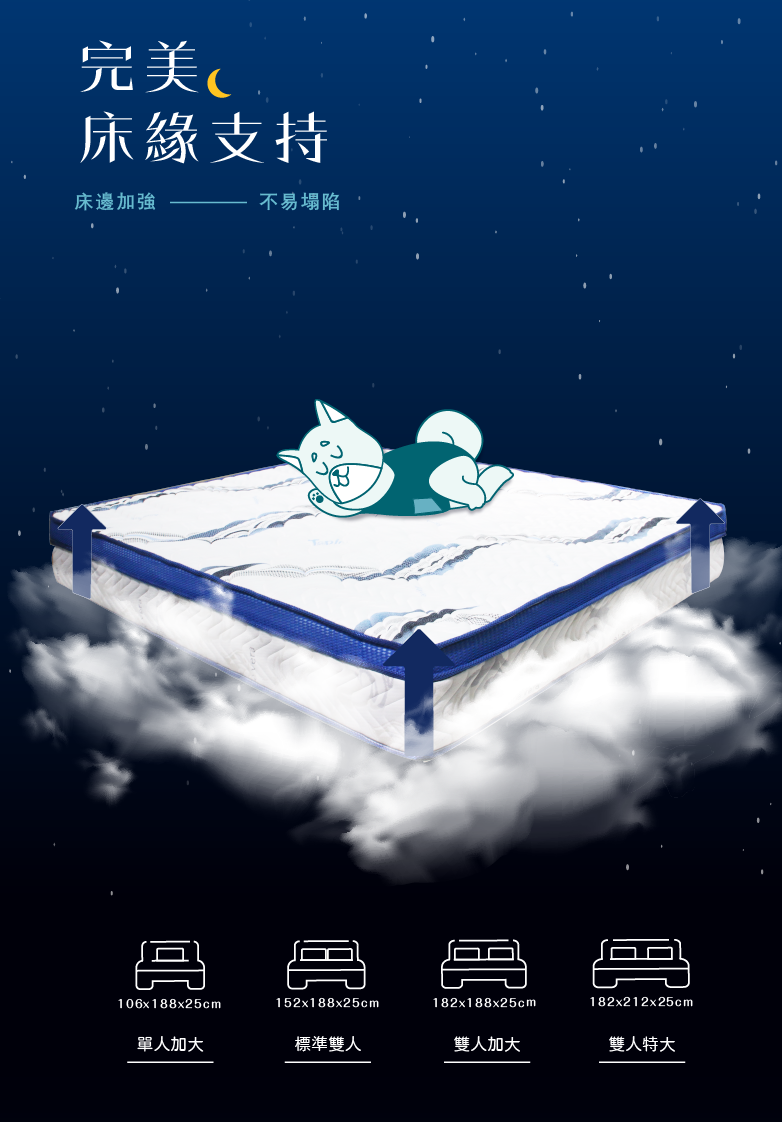
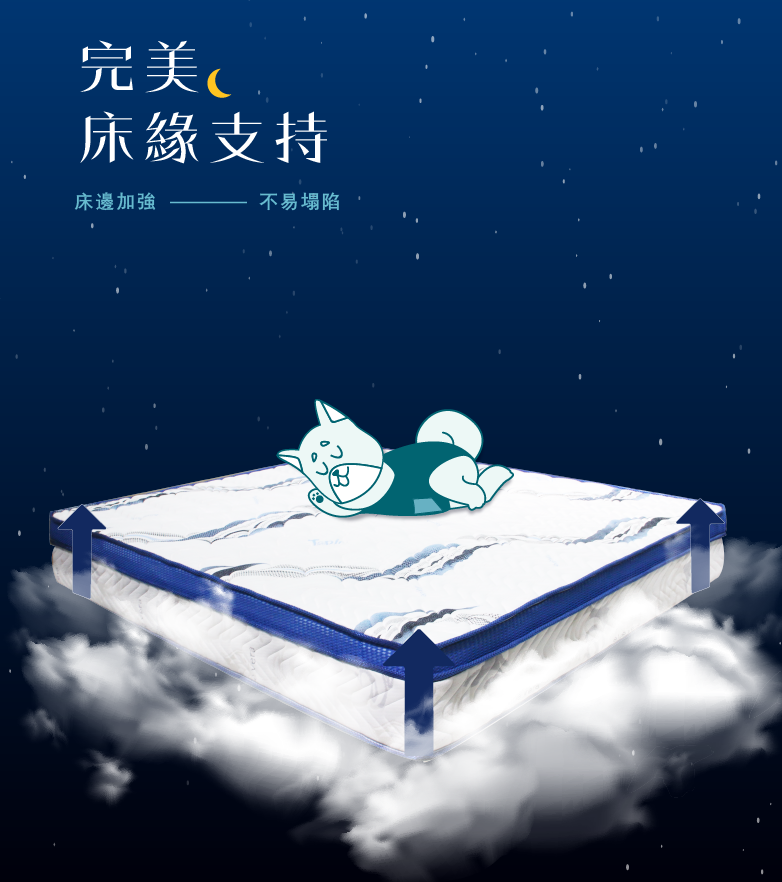
雲朵頁下方尺寸文字切版

diff --git a/products_cloud.html b/products_cloud.html
@@ -111,6 +111,40 @@
                         </div>
                       </div>
                     </div>
+                    <div id="section5">
+                      <img src="images/products/cloud/section5.png" alt="">
+                      <div class="besSizeContainer">
+                        <div class="besSizeDiv">
+                          <img class="bedSize1" src="images/products/cloud/bedSize1.png?1" alt="">
+                          <div class="textField">
+                            <div class="line1">106x188x25cm</div>
+                            <div class="line2">單人加大</div>
+                          </div>
+                        </div>
+                        <div class="besSizeDiv">
+                            <img class="bedSize2" src="images/products/cloud/bedSize2.png?1" alt="">
+                            <div class="textField">
+                              <div class="line1">152x188x25cm</div>
+                              <div class="line2">標準雙人</div>
+                            </div>
+                        </div>
+                        <div class="besSizeDiv">
+                          <img class="bedSize3" src="images/products/cloud/bedSize3.png?1" alt="">
+                          <div class="textField">
+                            <div class="line1">182x188x25cm</div>
+                            <div class="line2">雙人加大</div>
+                          </div>
+                        </div>
+                        <div class="besSizeDiv">
+                            <img class="bedSize4" src="images/products/cloud/bedSize4.png?1" alt="">
+                            <div class="textField">
+                              <div class="line1">182x212x25cm</div>
+                              <div class="line2">雙人特大</div>
+                            </div>
+                          </div>
+                        </div>
+                      </div>
+                    </div>
                 </div>
               </section>
         </main>
@@ -164,7 +198,8 @@ section#products_page {
 #section1,
 #section2,
 #section3,
-#section4 {
+#section4,
+#section5 {
   position: relative;
   max-width: 1200px;
   margin: 0 auto;
@@ -234,6 +269,80 @@ section .divImgElement {
   border-bottom: solid 2px #fff;
 }
 
+#section5 {
+  margin-top: 0px;
+}
+
+#section5 .besSizeContainer {
+  display: flex;
+  justify-content: center;
+  align-items: center;
+  position: absolute;
+  top: 5px;
+  width: 100%;
+  max-width: 1000px;
+  left: 50%;
+  transform: translateX(-50%);
+}
+
+#section5 .besSizeDiv {
+  /* margin: 1.25%; */
+  text-align: center;
+  width: 25%;
+}
+#section5 .besSizeDiv img {
+  margin: 0 auto 10px;
+  max-height: 80px;
+}
+#section5 .besSizeDiv img.bedSize1 {
+  width: 13vw;
+  min-width: 35px;
+  max-width: 130px;
+}
+#section5 .besSizeDiv img.bedSize2 {
+  width: 15vw;
+  min-width: 50px;
+  max-width: 135px;
+}
+#section5 .besSizeDiv img.bedSize3 {
+  width: 17vw;
+  min-width: 55px;
+  max-width: 145px;
+  margin-top: -5px;
+}
+#section5 .besSizeDiv img.bedSize4 {
+  width: 20vw;
+  min-width: 60px;
+  max-width: 155px;
+  margin-top: -4px;
+}
+#section5 .besSizeDiv .textField {
+  color: #fff;
+  font-size: 12px;
+  transform: scale(0.6);
+  position: relative;
+  margin: 0 auto;
+  letter-spacing: 2px;
+  width: 60px;
+  height: 60px;
+  margin-top: -10px;
+}
+#section5 .besSizeDiv .textField div.line1 {
+  position: absolute;
+  top: 0;
+  left: 50%;
+  transform: translateX(-50%);
+}
+#section5 .besSizeDiv .textField div.line2 {
+  position: absolute;
+  bottom: 0;
+  width: 85px;
+  margin: 10px auto;
+  padding: 5px 10px;
+  border-bottom: solid 2px #fff;
+  left: 50%;
+  transform: translateX(-50%);
+}
 @media (min-width: 380px) {
   .section_container .textField {
     transform: initial;
@@ -241,6 +350,10 @@ section .divImgElement {
   }
   .section_container .textField img {
     width: 60px;
+  }
+  #section5 .besSizeDiv .textField {
+    margin-top: 0;
+    transform: scale(0.8);
   }
 }
 @media (min-width: 480px) {
@@ -253,6 +366,22 @@ section .divImgElement {
   }
   #section3 .section_container .textField {
     left: 10vw;
+  }
+
+  #section5 .besSizeDiv {
+    width: 25%;
+  }
+  #section5 .besSizeDiv .textField {
+    width: 125px;
+    height: 80px;
+    transform: initial;
+    margin-top: 15px;
+  }
+  #section5 .besSizeDiv .textField div.line1 {
+  }
+  #section5 .besSizeDiv .textField div.line2 {
+    width: 76px;
+    bottom: 20px;
   }
 }
 @media (min-width: 576px) {
@@ -282,6 +411,14 @@ section .divImgElement {
   .section_container .textField .desc div {
     margin: 10px 3px;
   }
+  #section5 .besSizeDiv .textField {
+    margin-top: 25px;
+    font-size: 16px;
+  }
+  #section5 .besSizeDiv .textField div.line2 {
+    bottom: 0;
+    width: 100px;
+  }
 }
 @media (min-width: 992px) {
 }
@@ -296,6 +433,9 @@ section .divImgElement {
   }
   #section3 .section_container .textField {
     left: 120px;
+  }
+  #section5 .besSizeContainer {
+    top: 40px;
   }
 }
 </style>
